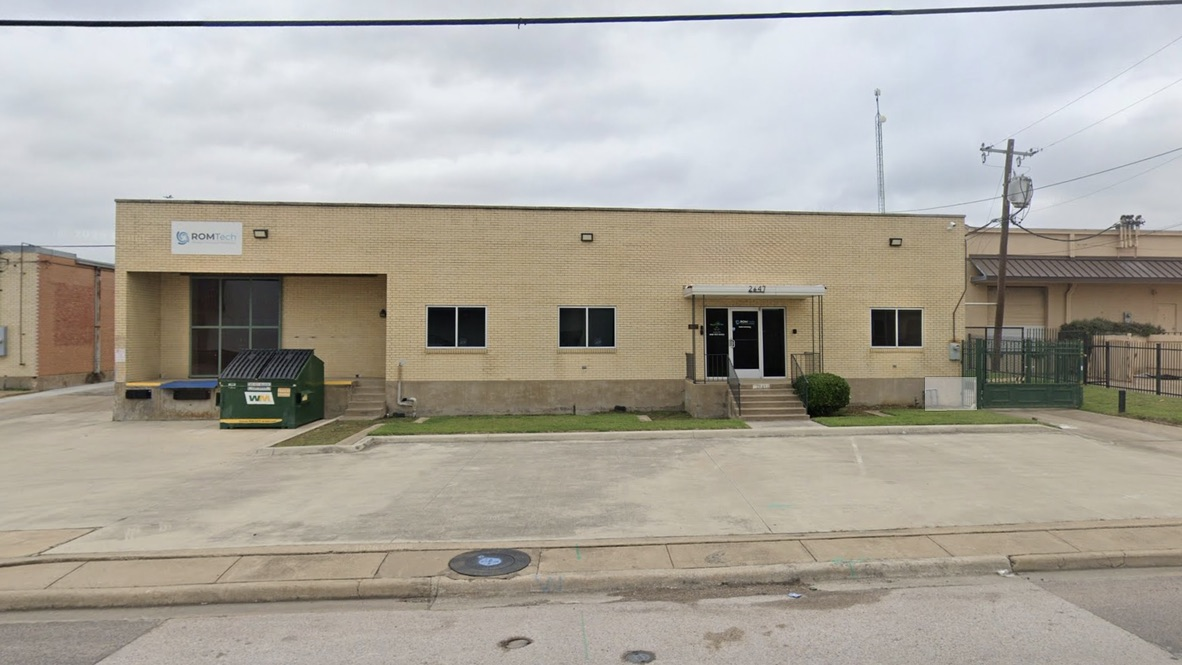
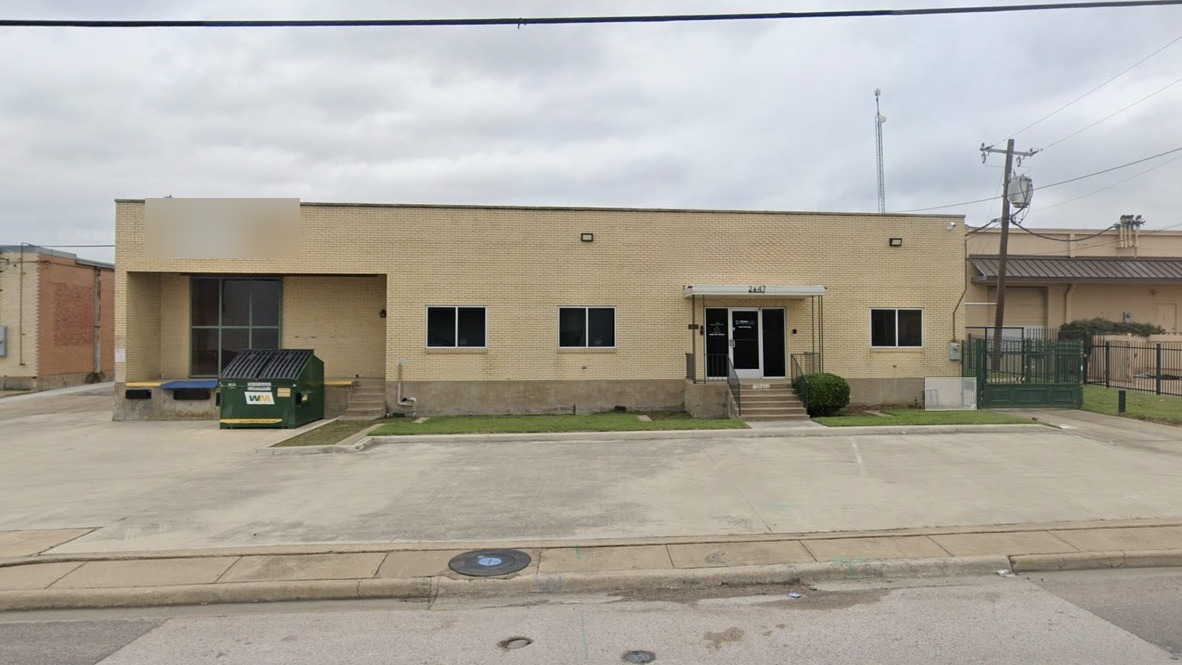
Remove tenant signage from 2647 Manana exterior photos
Blurred the ROMTech sign visible in three exterior shots and updated
the draft page copy so the hold notice only flags interior/inventory
photos as still needing replacement before publish.

Changed region(s): [[0.1218, 0.3008, 0.2741, 0.391]]

diff --git a/2647-manana-dr.html b/2647-manana-dr.html
@@ -208,7 +208,7 @@
 <body>
 
 <div class="draft-banner" id="draft-banner">
-  <strong>DRAFT, not live.</strong> Hold publishing until: (1) listing agreement signed by Lionel and Corey's broker, (2) Lionel approves final copy, (3) April 1 delivery date and parking are confirmed, (4) zoning is confirmed, (5) photos are swapped for ones that do not show interior condition or the current tenant's signage, equipment, or inventory. Not linked from nav, mobile tabs, sitemap, or listings.html.
+  <strong>DRAFT, not live.</strong> Hold publishing until: (1) listing agreement signed by Lionel and Corey's broker, (2) Lionel approves final copy, (3) April 1 delivery date and parking are confirmed, (4) zoning is confirmed, (5) interior photos are swapped for ones that do not show the current tenant's condition, equipment, or inventory. Exterior signage has been removed from the exterior photos. Not linked from nav, mobile tabs, sitemap, or listings.html.
 </div>
 <script>if (PUBLISHED) document.getElementById('draft-banner').style.display = 'none';</script>
 
@@ -346,7 +346,7 @@
   <section class="section">
     <p class="section-eyebrow">Gallery</p>
     <h2 class="section-title">Property photos</h2>
-    <p>Temporary photos for internal review. Interior shots show the current tenant's space as occupied and will be replaced with vacant, sign-free photos before this page is published.</p>
+    <p>Exterior and roof photos are presentable as-is. Interior shots are temporary and show the current tenant's space as occupied, they will be replaced with vacant photos before this page is published.</p>
     <div class="gallery-grid">
       <div class="frame"><img src="/images/2647-manana/unnamed-3.jpg" alt="Roof, recently coated" loading="lazy" /></div>
       <div class="frame"><img src="/images/2647-manana/unnamed-6.jpg" alt="Exterior, dusk" loading="lazy" /></div>
